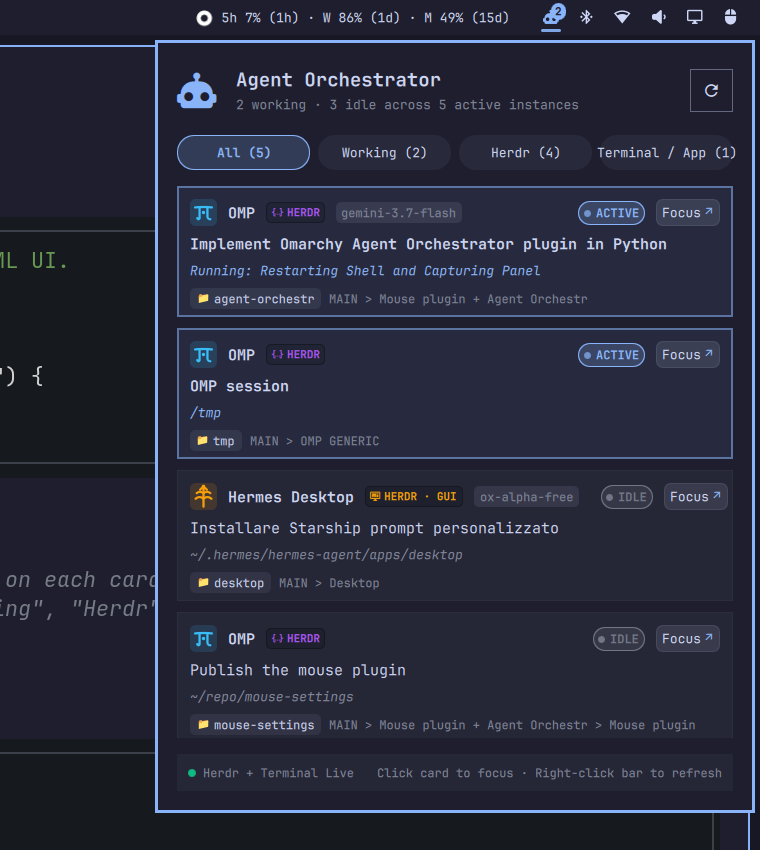
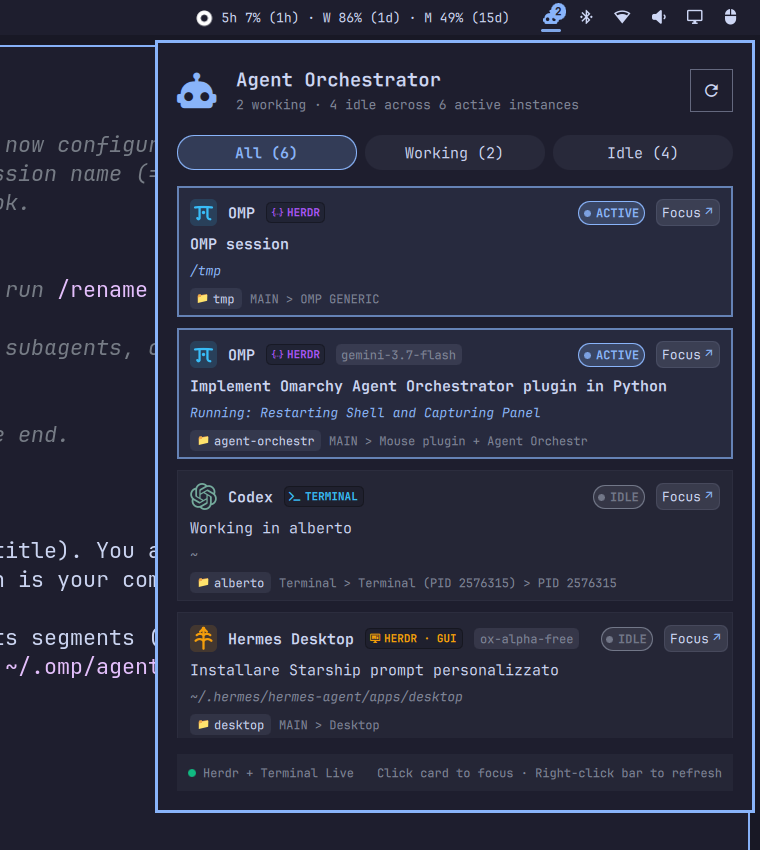
feat: simplify filter tabs to All, Working, Idle

diff --git a/Panel.qml b/Panel.qml
@@ -45,7 +45,7 @@ Panel {
   property var summary: rawData && rawData.summary ? rawData.summary : ({ total: 0, working: 0, idle: 0, waiting: 0, headline: "Offline" })
   property var agents: rawData && rawData.agents ? rawData.agents : []
   property bool loading: false
-  property string selectedFilter: "all" // "all" | "working" | "herdr" | "external"
+  property string selectedFilter: "all" // "all" | "working" | "idle"
   property string lastFocusedPane: ""
 
   readonly property var filteredAgents: {
@@ -53,17 +53,11 @@ Panel {
     if (root.selectedFilter === "working") {
       return list.filter(function(a) { return a.status === "working" || a.status === "waiting" })
     }
-    if (root.selectedFilter === "herdr") {
-      return list.filter(function(a) { return a.origin === "herdr" || a.origin === "herdr_desktop" })
-    }
-    if (root.selectedFilter === "external") {
-      return list.filter(function(a) { return a.origin === "terminal" || a.origin === "desktop" })
+    if (root.selectedFilter === "idle") {
+      return list.filter(function(a) { return a.status === "idle" || a.status === "error" })
     }
     return list
   }
-
-  readonly property int herdrCount: (root.agents || []).filter(function(a) { return a.origin === "herdr" || a.origin === "herdr_desktop" }).length
-  readonly property int externalCount: (root.agents || []).filter(function(a) { return a.origin === "terminal" || a.origin === "desktop" }).length
 
   function alpha(c, a) { return Qt.rgba(c.r, c.g, c.b, a) }
 
@@ -365,8 +359,7 @@ Panel {
           model: [
             { id: "all", label: "All (" + (root.summary.total || 0) + ")" },
             { id: "working", label: "Working (" + (root.summary.working || 0) + ")" },
-            { id: "herdr", label: "Herdr (" + root.herdrCount + ")" },
-            { id: "external", label: "Terminal / App (" + root.externalCount + ")" }
+            { id: "idle", label: "Idle (" + (root.summary.idle || 0) + ")" }
           ]
 
           Rectangle {
@@ -382,7 +375,7 @@ Panel {
               anchors.centerIn: parent
               text: modelData.label
               font.family: root.fontFamily
-              font.pixelSize: Style.space(10)
+              font.pixelSize: Style.space(11)
               font.weight: root.selectedFilter === modelData.id ? Font.DemiBold : Font.Normal
               color: root.selectedFilter === modelData.id ? root.accent : root.foreground
             }
